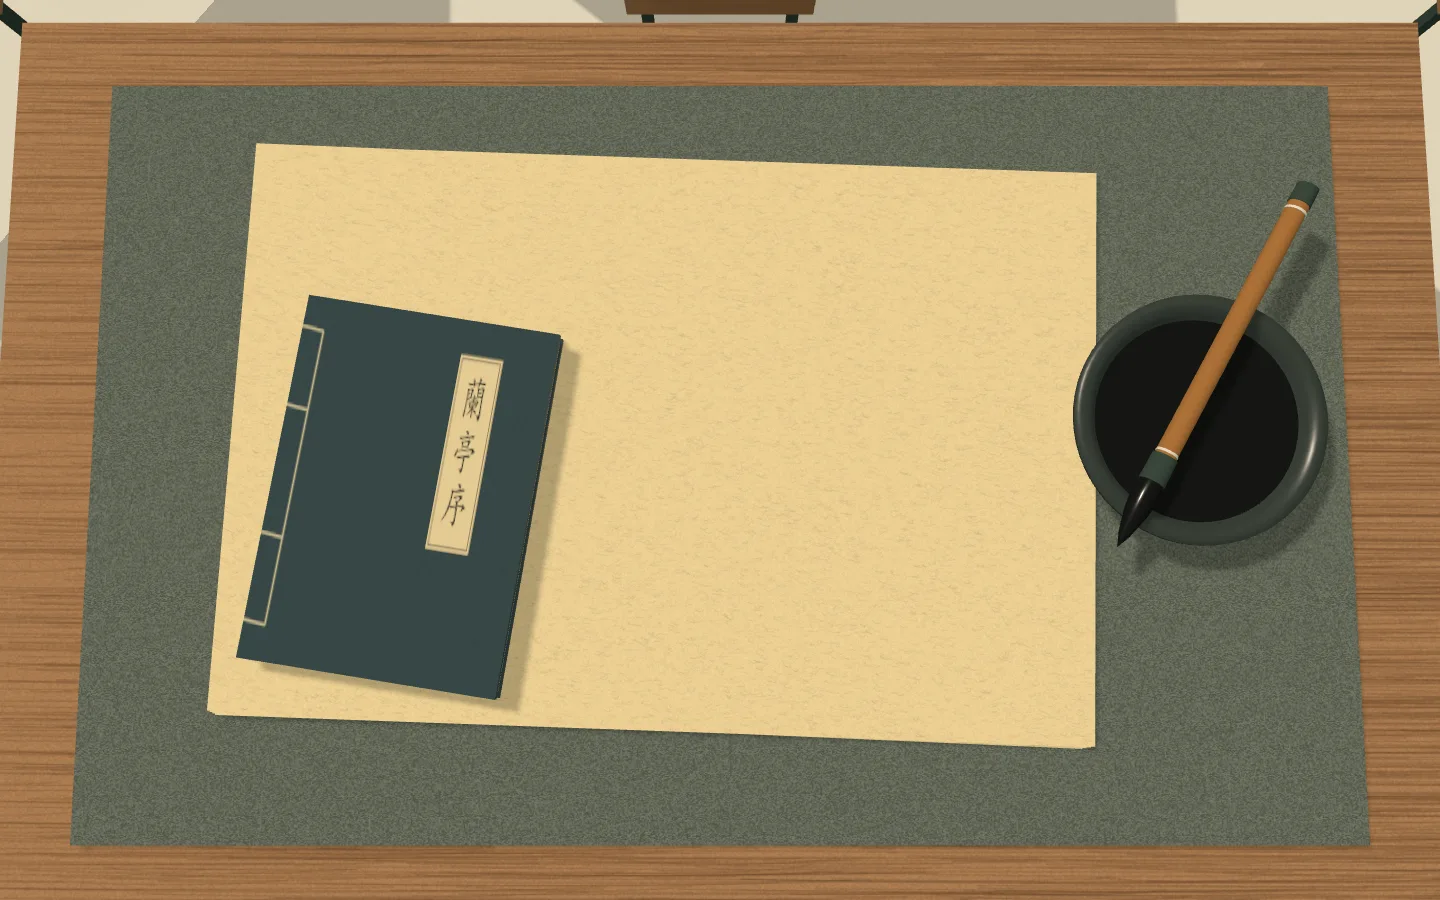
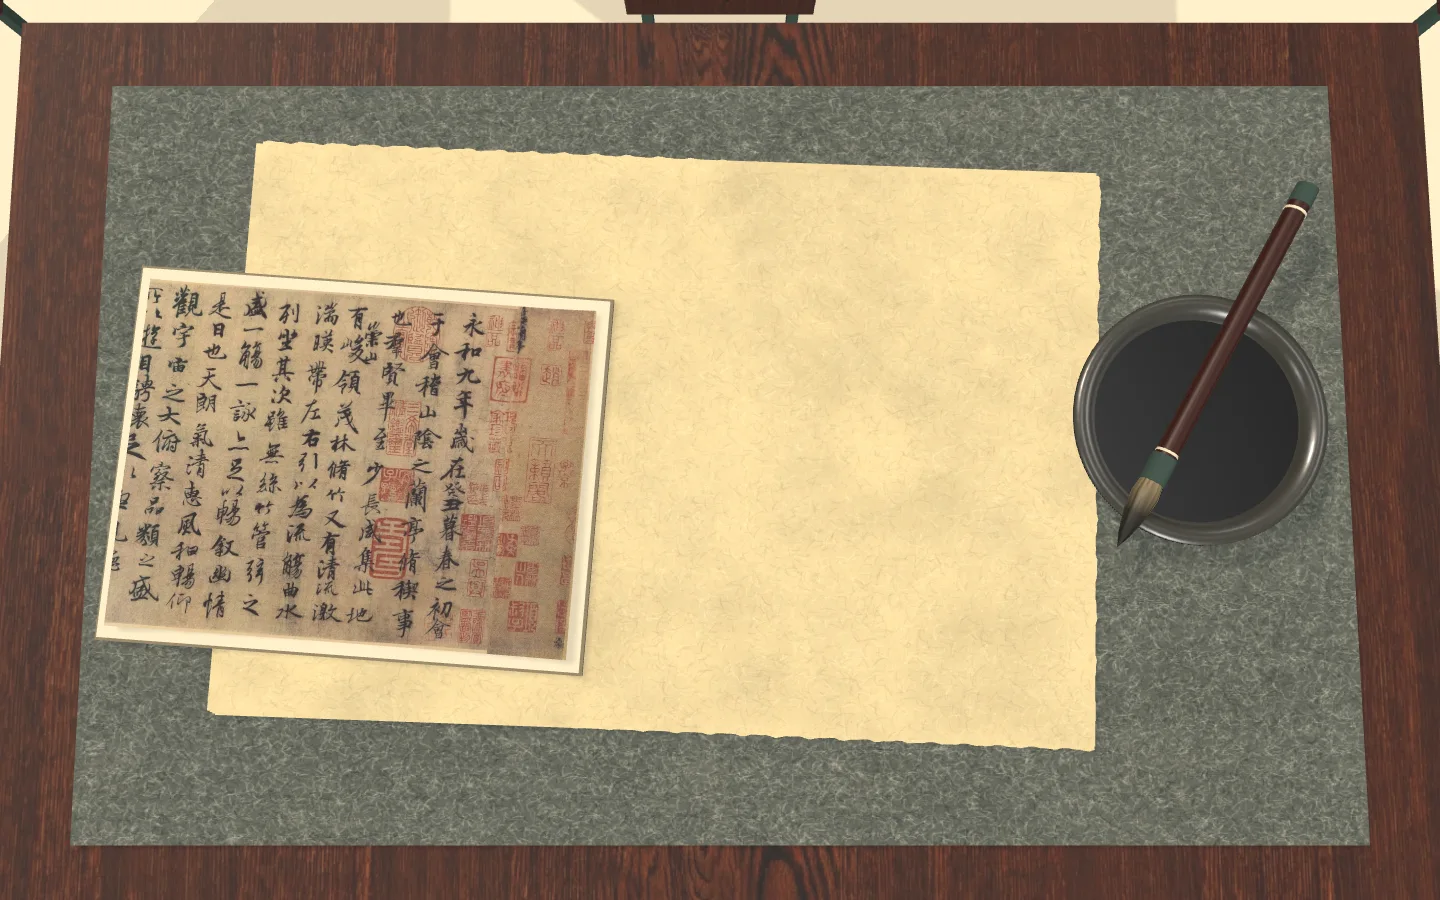
feat: render the Shenlong facsimile and ink absorbing into practice paper

diff --git a/src/components/classroom-textures.ts b/src/components/classroom-textures.ts
@@ -1,46 +1,32 @@
 import { CanvasTexture, SRGBColorSpace } from 'three';
 
-type Surface = 'oak' | 'felt' | 'paper' | 'cover';
-
-export function deskTexture(surface: Surface) {
+export function deskTexture(surface: 'felt' | 'paper') {
   const canvas = document.createElement('canvas');
   canvas.width = 1024;
   canvas.height = 768;
   const ctx = canvas.getContext('2d')!;
   let seed = 2397;
   const random = () => ((seed = (1664525 * seed + 1013904223) >>> 0) / 4294967296);
-  ctx.fillStyle = { oak: '#ae835c', felt: '#636d64', paper: '#f3dfab', cover: '#344a51' }[surface];
+  const wool = surface === 'felt';
+  ctx.fillStyle = wool ? '#555952' : '#dbc796';
   ctx.fillRect(0, 0, 1024, 768);
-  const wood = surface === 'oak';
-  const pixels = ctx.getImageData(0, 0, 1024, 768);
-  for (let i = 0; i < pixels.data.length; i += 4) {
-    const grain = (random() - .5) * (surface === 'felt' ? 43 : 17);
-    for (let c = 0; c < 3; c++) pixels.data[i + c] += grain;
+  // Soft clumps beneath individual strands break up the uniform digital grain.
+  for (let i = 0; i < 560; i++) {
+    const x = random()*1024, y = random()*768, r = 9 + 67*random();
+    const cloud = ctx.createRadialGradient(x,y,0,x,y,r);
+    cloud.addColorStop(0, random()>.5 ? '#efe4c40a' : '#37372c08');
+    cloud.addColorStop(1,'transparent');
+    ctx.fillStyle = cloud; ctx.fillRect(x-r,y-r,2*r,2*r);
   }
-  ctx.putImageData(pixels, 0, 0);
-  ctx.strokeStyle = wood ? '#4d31192b' : '#574a391f';
-  ctx.lineWidth = wood ? 1.3 : .8;
-  for (let i = 0; i < (wood ? 2600 : 11000); i++) {
-    const x = random() * 1100 - 76, y = random() * 768;
-    const length = wood ? 60 + random() * 440 : 2 + random() * 10;
-    ctx.beginPath();
-    ctx.moveTo(x, y);
-    ctx.quadraticCurveTo(x + length * .6, y + random() * 8, x + length, y + random() * 5 - 2);
-    ctx.stroke();
-  }
-  if (surface === 'cover') {
-    ctx.fillStyle = '#ebdbad';
-    ctx.fillRect(648, 75, 170, 412);
-    ctx.strokeStyle = '#72654f'; ctx.lineWidth = 3;
-    ctx.strokeRect(656, 83, 154, 396);
-    ctx.fillStyle = '#282b25'; ctx.textAlign = 'center';
-    ctx.font = '100px KaiTi, "Kaiti SC", serif';
-    [...'蘭亭序'].forEach((letter, i) => ctx.fillText(letter, 733, 200 + i * 112));
-    ctx.strokeStyle = '#cdc8a7'; ctx.lineWidth = 6;
-    for (const y of [72, 242, 512, 694]) {
-      ctx.beginPath(); ctx.moveTo(0, y - 5); ctx.lineTo(86, y); ctx.stroke();
-    }
-    ctx.beginPath(); ctx.moveTo(86, 72); ctx.lineTo(86, 694); ctx.stroke();
+  for (let i = 0; i < (wool ? 120000 : 23500); i++) {
+    const x = random()*1024, y = random()*768;
+    const angle = random()*Math.PI + .48*Math.sin(x/70+y/180);
+    const length = (wool ? 1.8 : 2.4) + random()*(wool ? 9 : 16);
+    const dx = length*Math.cos(angle), dy = length*Math.sin(angle);
+    ctx.strokeStyle = random()>.48 ? (wool ? '#ebe8d32e' : '#fff7d52e') : (wool ? '#141b1838' : '#79644729');
+    ctx.lineWidth = .42 + random()*.72;
+    ctx.beginPath(); ctx.moveTo(x,y);
+    ctx.quadraticCurveTo(x+dx*.5-dy*.17,y+dy*.5+dx*.17,x+dx,y+dy); ctx.stroke();
   }
   const texture = new CanvasTexture(canvas);
   texture.colorSpace = SRGBColorSpace;

diff --git a/src/components/OpeningDesk.tsx b/src/components/OpeningDesk.tsx
@@ -34,10 +34,12 @@ export function OpeningDesk({ enter }: { enter: () => void }) {
       if (!visible || loading || failed || entering.current) return;
       loading = true;
       try {
-        const { createClassroom } = await import('./classroom-scene');
+        const { createClassroom, loadDeskImages } = await import('./classroom-scene');
+        if (disposed || motion.matches || !visible || entering.current) return;
+        const images = await loadDeskImages();
         if (disposed || motion.matches || !visible || entering.current) return;
         setPhase('approach');
-        scene.current = createClassroom(element!, () => setPhase('desk'));
+        scene.current = createClassroom(element!, () => setPhase('desk'), images);
       } catch { failed = true; release(); }
       finally { loading = false; }
     }
@@ -55,7 +57,7 @@ export function OpeningDesk({ enter }: { enter: () => void }) {
 
   useEffect(() => {
     if (!origin) return;
-    const timer = window.setTimeout(finish, 1900);
+    const timer = window.setTimeout(finish, 2600);
     return () => window.clearTimeout(timer);
   }, [origin]);
 
@@ -74,13 +76,16 @@ export function OpeningDesk({ enter }: { enter: () => void }) {
         {!isReleaseBuild && <span>{locale === 'zh' ? '内部测试第一版' : 'Internal beta 1'}</span>}
         <a href="#/library">{locale === 'zh' ? '读作品与书家 →' : 'Read works and calligraphers →'}</a>
       </div>
+      <a className="desk__credit" href="#/object/witness-lanting">
+        {locale === 'zh' ? '帖影 · 兰亭序神龙本（局部）' : 'Plate · Shenlong copy (detail)'}
+      </a>
       <h1 id="opening-title">
         <a className="desk__paper" href="#catalogue" onClick={open} aria-label={strings.enterCatalogue}>
           <span className="desk__words"><span>{strings.taglineLead}</span><span>{strings.tagline}</span></span>
         </a>
       </h1>
       {origin && <>
-        <i className="desk__ink" aria-hidden="true" style={{ left: origin.x + '%', top: origin.y + '%' }} />
+        {phase === 'poster' && <i className="desk__ink" aria-hidden="true" style={{ left: origin.x + '%', top: origin.y + '%' }} />}
         <div className="desk__veil" aria-hidden="true" onAnimationEnd={finish} />
       </>}
     </section>

diff --git a/src/components/paper-ink.ts b/src/components/paper-ink.ts
@@ -1,0 +1,48 @@
+import { Mesh, PlaneGeometry, ShaderMaterial } from 'three';
+
+// Paper coordinates stay fixed as water advances. Fine fibres lead the wash,
+// while the heavier pigment remains concentrated at the brush impression.
+export function paperInk() {
+  const age = { value: 0 };
+  const material = new ShaderMaterial({
+    uniforms: { age }, transparent: true, depthWrite: false,
+    vertexShader: `
+      varying vec2 paper;
+      void main() {
+        paper = uv - 0.5;
+        gl_Position = projectionMatrix * modelViewMatrix * vec4(position, 1.);
+      }`,
+    fragmentShader: `
+      varying vec2 paper;
+      uniform float age;
+      float hash(vec2 p) {
+        vec3 v = fract(p.xyx * .1031);
+        v += dot(v, v.yzx + 33.33);
+        return fract((v.x+v.y)*v.z);
+      }
+      float noise(vec2 p) {
+        vec2 i = floor(p), f = fract(p);
+        f = f*f*(3.-2.*f);
+        return mix(mix(hash(i),hash(i+vec2(1,0)),f.x),
+                   mix(hash(i+vec2(0,1)),hash(i+1.),f.x),f.y);
+      }
+      void main() {
+        vec2 p = mat2(.94,.34,-.34,.94)*paper;
+        float grain = noise(220.*p);
+        float fibre = noise(p*vec2(44.,195.));
+        float uneven = .62*noise(13.*p+4.) + .26*noise(46.*p) + .12*fibre;
+        float d = length(p*vec2(.89,1.23)) * (1.30-.59*uneven) + .007*(.5-grain);
+        float water = .020 + .33*sqrt(1.-exp(-1.85*age));
+        float pigment = .013 + .21*(1.-exp(-2.6*age));
+        float fringe = 1.-smoothstep(water-.063,water+.016,d);
+        float body = 1.-smoothstep(.012,pigment+.034,d);
+        float tide = exp(-70.*abs(d-water+.018))*fringe;
+        float density = fringe*(.22+.11*fibre+.05*grain+.34*(1.-smoothstep(.01,water,d))) + .74*body + .12*tide;
+        gl_FragColor = vec4(.045,.044,.037,clamp(density,0.,.98)*smoothstep(0.,.035,age));
+      }`
+  });
+  const mark = new Mesh(new PlaneGeometry(1.21,1.21), material);
+  mark.rotation.x = -Math.PI/2;
+  mark.visible = false;
+  return { mark, age };
+}

diff --git a/src/components/opening-desk.css b/src/components/opening-desk.css
@@ -23,11 +23,12 @@
 .desk[data-scene="approach"] .desk__words { visibility: hidden; opacity: 0; transform: translateY(9px); }
 @media (max-aspect-ratio: 17/20) { .desk { background-image: url('../assets/classroom-portrait.webp'); } }
 .desk[data-entering="true"] .desk__words { opacity: 0; }
-.desk__ink { position: absolute; width: 260vmax; aspect-ratio: 1; pointer-events: none;
+.desk__ink { position: absolute; width: clamp(64px,12vmin,160px); aspect-ratio: 1; pointer-events: none;
   background: url('../assets/ink-wash.webp') center/contain no-repeat;
   animation: desk-bloom .87s .73s cubic-bezier(.23,.55,.37,1) both; }
-.desk__veil { pointer-events: none; background: var(--canvas); z-index: 4; animation: desk-veil .32s 1.37s both; }
+.desk__veil { pointer-events: none; background: var(--canvas); z-index: 4; animation: desk-veil .42s 1.95s both; }
 @keyframes desk-bloom { from {transform:translate(-50%,-50%) scale(0)} to {transform:translate(-50%,-50%) scale(1)} }
 @keyframes desk-veil { from {opacity:0} to {opacity:1} }
 @media (prefers-reduced-motion:reduce) { .desk *, .desk *::before { transition:none!important; animation:none!important; } }
 @media (max-aspect-ratio: 17/20) { .desk__words { margin: 18% 0 0; font-size: clamp(1.75rem, 6vw, 3.4rem); } .desk__words:lang(en) { font-size: clamp(1.2rem, 4.4vw, 2.6rem); } }
+.desk__credit { position:absolute; z-index:2; bottom:14px; left:clamp(12px,3vw,48px); padding:.45rem .65rem; color:#38372e; background:#f8f2e3ed; font-size:.78rem; }

diff --git a/docs/source-audit.md b/docs/source-audit.md
@@ -48,7 +48,8 @@ Research date: 2026-11-17. These are research notes, not a completed release dat
 - [Palace Museum website terms](https://www.dpm.org.cn/bottom/privacy/254.html) and [image authorization page](https://www.dpm.org.cn/bottom/apply_image): do not treat public web display as blanket permission to redistribute museum images in an open repository.
 - [National Palace Museum image/text reuse rules](https://theme.npm.edu.tw/opendata/%E6%95%85%E5%AE%AEOpen%20Data%E5%B0%88%E5%8D%80%E5%9C%96%E5%83%8F%E8%88%87%E6%96%87%E5%AD%97%E6%8E%88%E6%AC%8A%E8%A6%8F%E7%AF%84.pdf): different download variants have different stated licenses. Verify the actual asset and credit before use; a catalog-wide assumption is insufficient.
 - Museum prose is not automatically reusable wholesale. Write concise original factual summaries, preserve bibliographic references, and keep any quotations short and justified.
-- No third-party images have been downloaded or bundled in this project.
+- The opening desk displays a modern study plate cropped from the opening of the Shenlong manuscript (witness-lanting). The source JPEG measures 4513 × 1480. The crop retains columns in their original order and proportions, from x=2590 through the right edge, at full source height. The two static desk posters also depict the crop. [Image and PD-Art declaration](https://commons.wikimedia.org/w/index.php?title=File:LantingXu.jpg&oldid=1087138769).
+- The wood diffuse and OpenGL normal maps are WebP derivatives of Wood Table 001 by Dimitrios Savva and Rico Cilliers. [Poly Haven asset](https://polyhaven.com/a/wood_table_001) and [CC0 license](https://polyhaven.com/license).
 
 ## Evidence to add before M1 is accepted
 
